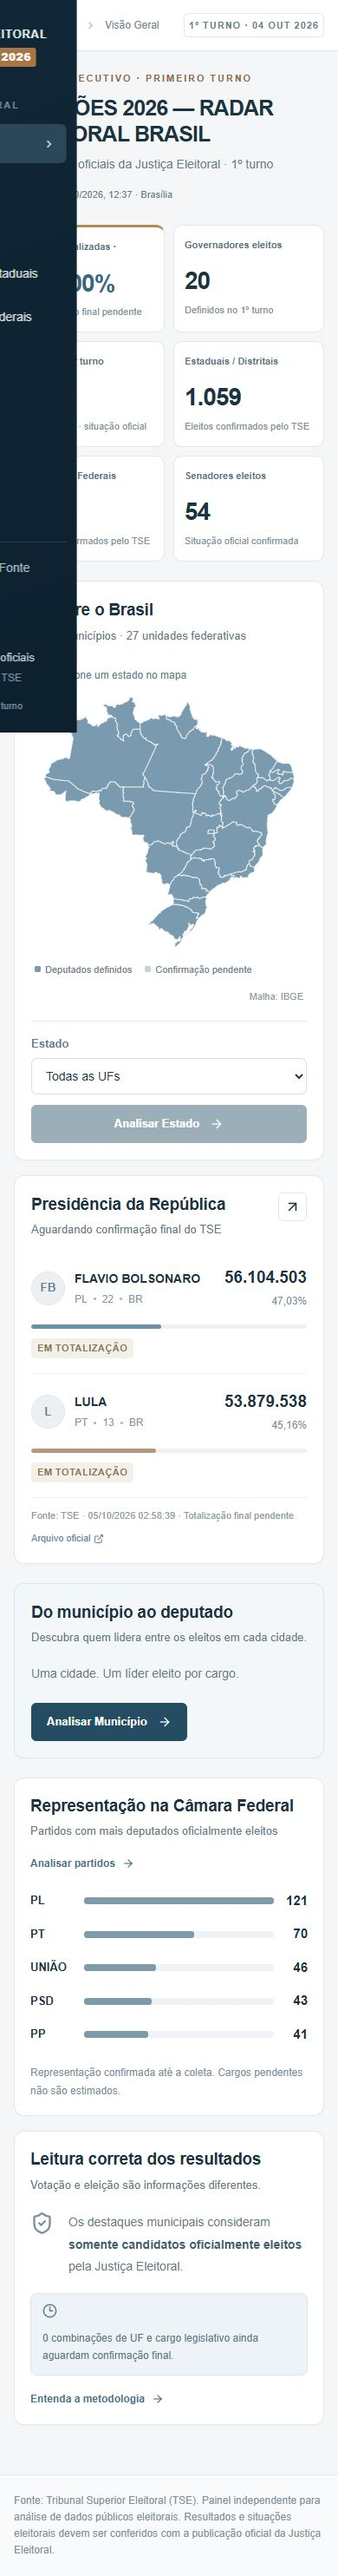
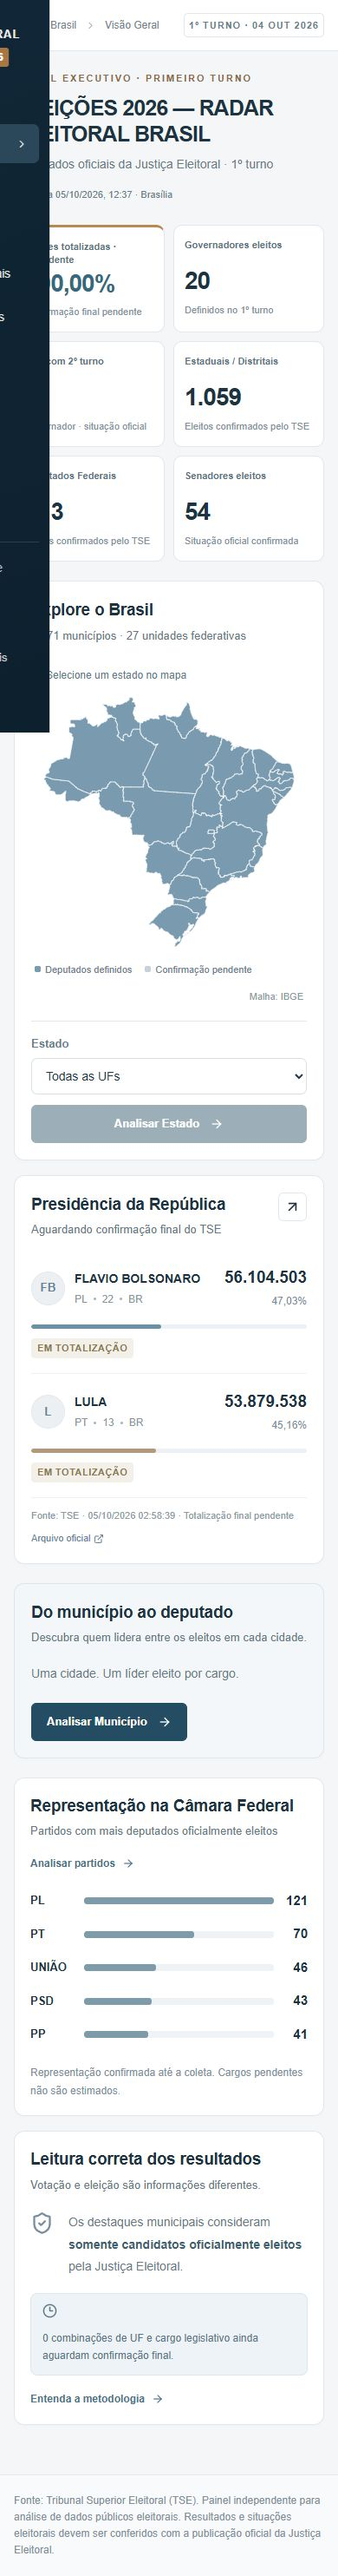
docs: confirmar consultas territoriais publicadas em HTTPS

Changed region(s): [[0.0, 0.0, 0.2462, 0.31], [0.0, 0.093, 0.0923, 0.124], [0.0, 0.248, 0.0615, 0.279]]

diff --git a/docs/deploy.md b/docs/deploy.md
@@ -4,7 +4,20 @@ Destino: https://hubnio.com.br/dashpolitico
 
 Repositório privado: https://github.com/andersonsouba/radar-eleitoral-brasil-2026
 
-## Versão atual — atualização de dados
+## Versão atual — consultas territoriais de 09/10/2026
+
+Publicado e verificado no domínio: duas consultas para estaduais/distritais e federais, “Onde liderou” e “Onde recebeu votos”. Detalhes em `visoes-territoriais-20261009.md`.
+
+- Código: `f8be17d`; release privada `visoes-20261009`.
+- Imagem saudável: `radar-eleitoral:20261009-visoes`.
+- Diretório: `/opt/radar-eleitoral/releases/20261009-visoes`.
[1 lines of base64/hex data omitted]
+- Mesma base `20261005T152605Z-0f9c851a`, coleta de 05/10 às 12h37. Não houve nova coleta.
+- Lint, TypeScript e build PASS; regressão local 27 PASS/2 não aplicáveis; domínio público 6 PASS.
+- Rollback preservado: `/opt/radar-eleitoral/releases/20261005-atualizacao` e imagem `radar-eleitoral:20261005-atualizacao`.
+- Evidências: `evidencias/visoes-publicacao.json`, `evidencias/visoes-publico.json` e capturas `evidencias/visoes-desktop.png`/`evidencias/visoes-mobile.png`.
+
+## Histórico — atualização de dados de 05/10/2026
 
 Publicado em 05/10/2026 e verificado às 12h51 (Brasília). Snapshot `20261005T152605Z-0f9c851a`, coleta encerrada às 12h37: 513 federais, 1.035 estaduais e 24 distritais eleitos; nenhuma combinação UF/cargo legislativo pendente. Permanecem as limitações presidenciais descritas em `atualizacao-20261005.md`.
 

diff --git a/docs/visoes-territoriais-20261009.md b/docs/visoes-territoriais-20261009.md
@@ -20,8 +20,8 @@ A inspeção com dados carregados identificou transbordamento na ficha mobile: a
 
 Lint, TypeScript e build de produção passaram. Regressão final: 27 testes PASS, 2 ignorados (ausência de municípios pendentes nesta base e captura exclusiva de HTTPS). Evidência: `evidencias/visoes-local.json`. Capturas da ficha carregada: `evidencias/visoes-desktop.png` e `evidencias/visoes-mobile.png`.
 
[2 lines of base64/hex data omitted]
 
 ## Implantação
 
-Imagem preparada: `radar-eleitoral:20261009-visoes`. Destino: https://hubnio.com.br/dashpolitico. Versão anterior preservada: `/opt/radar-eleitoral/releases/20261005-atualizacao`, imagem `radar-eleitoral:20261005-atualizacao`.
+Imagem publicada: `radar-eleitoral:20261009-visoes`. Destino: https://hubnio.com.br/dashpolitico. Versão anterior preservada: `/opt/radar-eleitoral/releases/20261005-atualizacao`, imagem `radar-eleitoral:20261005-atualizacao`.
